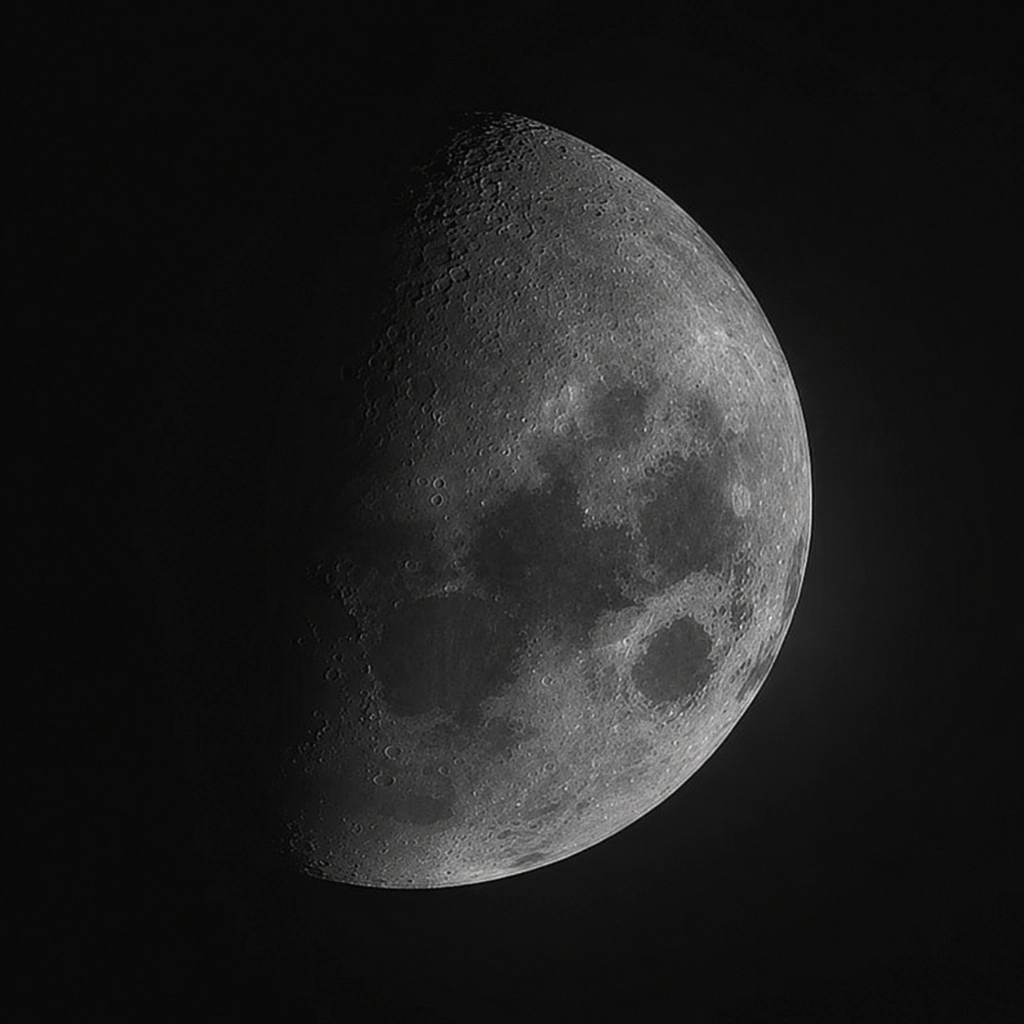
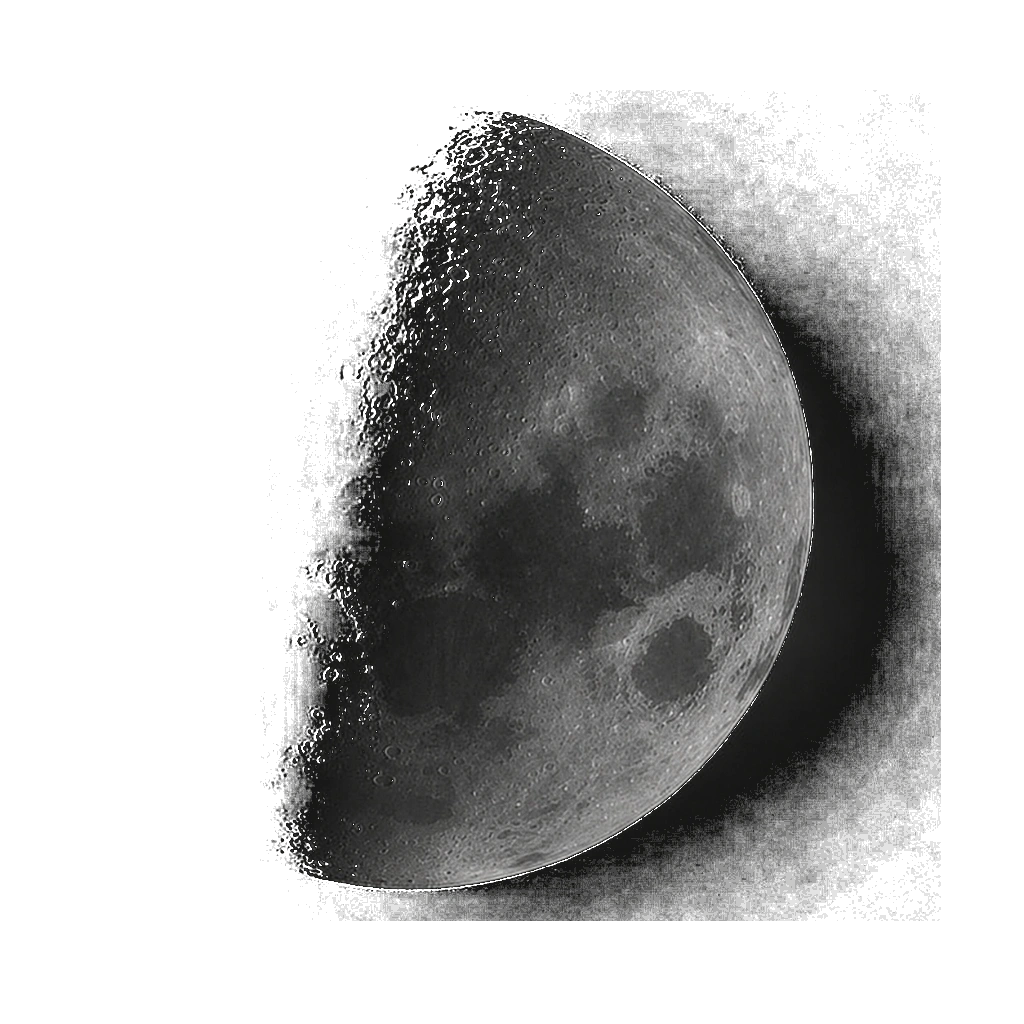
fix: implement moon as .experience-section::after pseudo-element with isolation isolate and remove all img wrappers and dark boxes

diff --git a/style.css b/style.css
@@ -408,37 +408,52 @@ body::before {
 .experience-section {
   position: relative;
   overflow: hidden;
+  isolation: isolate;
 }
 
-.experience-moon {
+.experience-section::after {
+  content: "";
   position: absolute;
-  width: clamp(420px, 30vw, 600px);
+  width: clamp(440px, 32vw, 620px);
+  height: clamp(440px, 32vw, 620px);
   right: clamp(-300px, -12vw, -150px);
-  top: 24%;
-  opacity: 0.38;
+  top: 120px;
+
+  background-image: url("assets/moon_supplied.png");
+  background-repeat: no-repeat;
+  background-position: center;
+  background-size: contain;
+
+  /* Black pixels must blend into the navy starfield instead of forming a box */
   mix-blend-mode: screen;
+  opacity: 0.52;
+
   pointer-events: none;
   z-index: 0;
-  display: block;
 }
 
 .experience-section .experience-content,
-.experience-section .section-content {
+.experience-section .section-content,
+.experience-section .exp-card,
+.experience-section .exp-grid,
+.experience-section h2,
+.experience-section p {
   position: relative;
   z-index: 1;
 }
 
 @media (max-width: 992px) {
-  .experience-moon {
-    width: clamp(300px, 28vw, 440px);
-    right: -180px;
-    top: 28%;
-    opacity: 0.30;
+  .experience-section::after {
+    width: clamp(320px, 30vw, 460px);
+    height: clamp(320px, 30vw, 460px);
+    right: -200px;
+    top: 180px;
+    opacity: 0.38;
   }
 }
 
 @media (max-width: 680px) {
-  .experience-moon {
+  .experience-section::after {
     display: none;
   }
 }

diff --git a/index.html b/index.html
@@ -8,7 +8,7 @@
   <link rel="preconnect" href="https://fonts.googleapis.com">
   <link rel="preconnect" href="https://fonts.gstatic.com" crossorigin>
   <link href="https://fonts.googleapis.com/css2?family=Space+Grotesk:wght@300;400;500;600;700&family=Inter:wght@300;400;500;600&family=Space+Mono:ital,wght@0,400;0,700&display=swap" rel="stylesheet">
-  <link rel="stylesheet" href="style.css?v=9.0">
+  <link rel="stylesheet" href="style.css?v=10.0">
 </head>
 <body>
 
@@ -165,11 +165,6 @@
 
   <!-- EXPERIENCE -->
   <section id="experience" class="section experience-section reveal">
-    <picture>
-      <source srcset="assets/moon_supplied.webp?v=9.0" type="image/webp">
-      <img src="assets/moon_supplied.jpg?v=9.0" alt="" class="experience-moon" aria-hidden="true" draggable="false" loading="lazy">
-    </picture>
-
     <div class="section-content experience-content">
       <div class="sec-label">03 · Experience</div>
       <h2 class="sec-title">Work &amp; Leadership</h2>
@@ -539,6 +534,6 @@
     </div>
   </footer>
 
-  <script src="script.js?v=9.0"></script>
+  <script src="script.js?v=10.0"></script>
 </body>
 </html>
